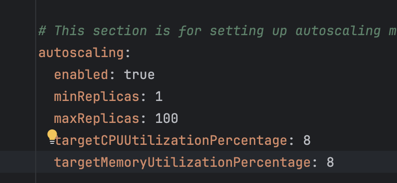
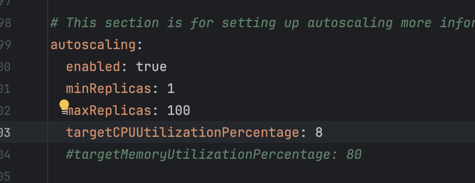
feat load test

diff --git a/docs/README.md b/docs/README.md
@@ -110,7 +110,6 @@ helm install calculation-core ./charts/calculation-core
 kubeclt apply -f scripts/load-test.yaml
 testkube run testworkflow jmeter
 ```
-- 
 
 # 代码覆盖率报告
 
@@ -118,7 +117,7 @@ testkube run testworkflow jmeter
 
 # 水平扩容测试报告
 
-为了更容易触发水平扩容条件,CPU与内存调整为 8%;
+为了更容易触发水平扩容条件,CPU调整为 8%;
 
 ![alt text](autoscaling1.png)
 
